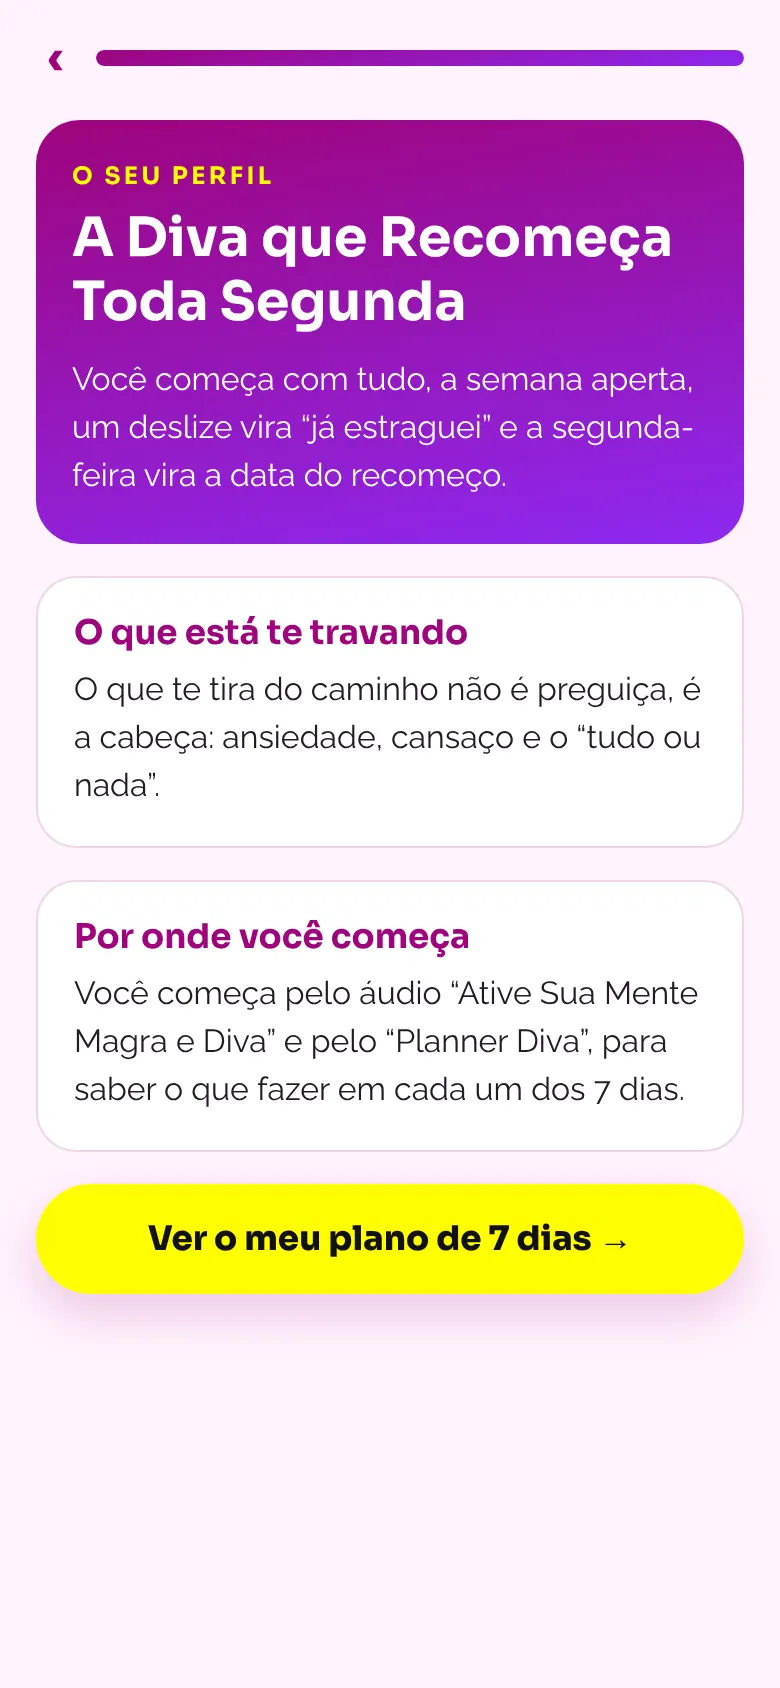
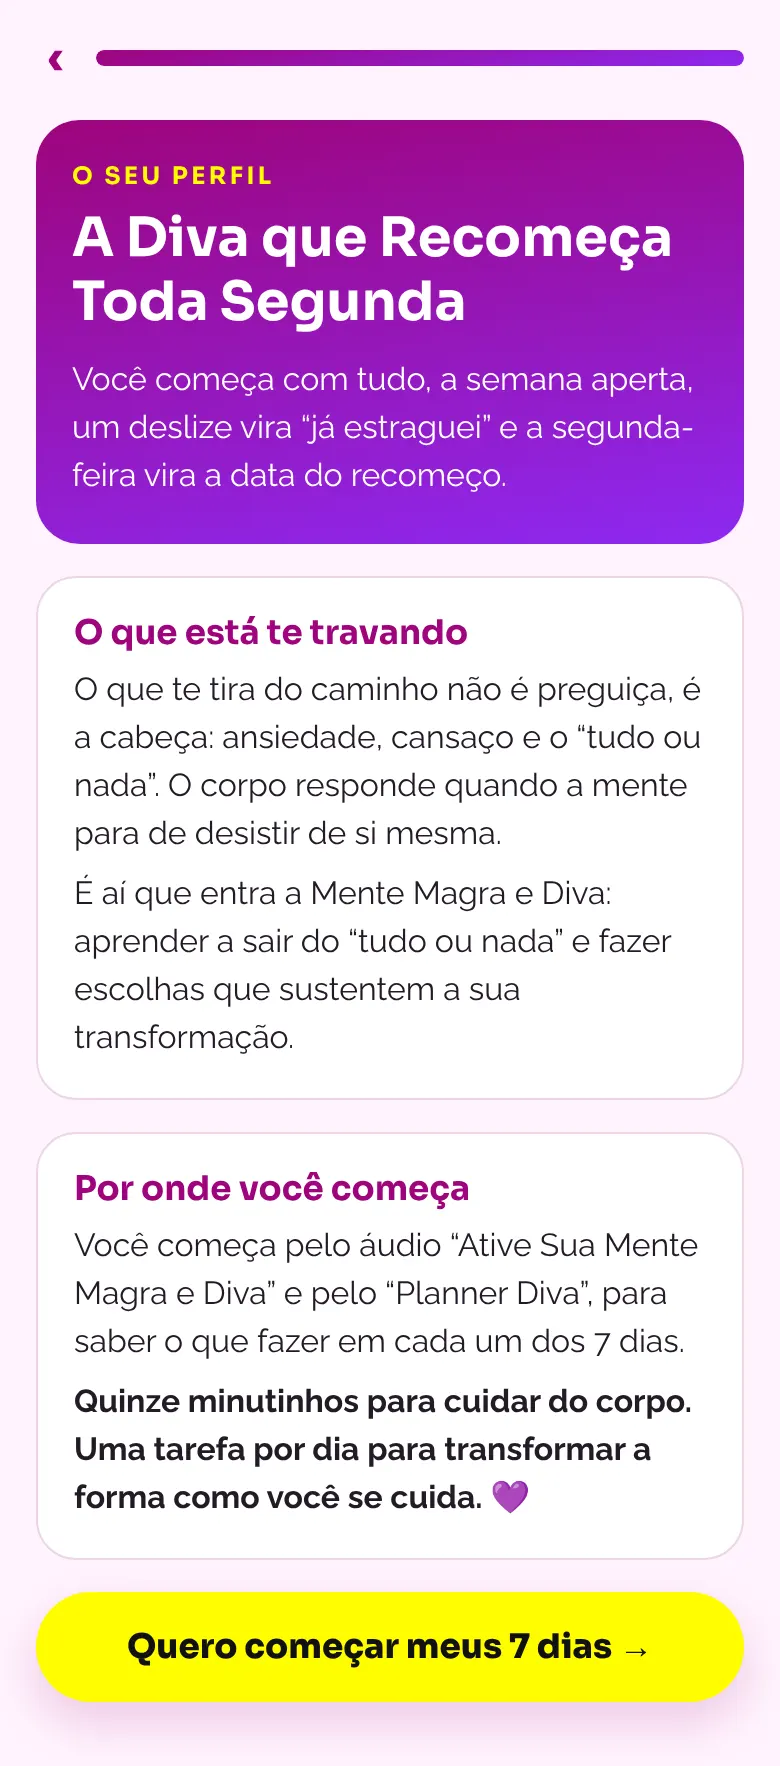
Quiz Diva: ajustes da Michele (idade 45, análise segue sozinha, resultado corpo e mente) e notas do pilates asiático
Claude-Session: https://claude.ai/code/session_01LYmQoangNvB5k6wY4MKJN5

diff --git a/michele-salla/quiz/quiz.js b/michele-salla/quiz/quiz.js
@@ -10,7 +10,7 @@ const PROMESSAS = {
   1: {
     nome: 'A rotina da Michele',
     etiqueta: 'Quiz gratuito',
-    titulo: 'Descubra a rotina de <mark>5 minutos por dia</mark> que eu faço para manter a barriga lisa aos [[IDADE]] anos',
+    titulo: 'Descubra a rotina de <mark>5 minutos por dia</mark> que eu faço para manter a barriga lisa aos 45 anos',
     sub: 'Responda e veja qual é o seu perfil e por onde você começa.',
     botao: 'Quero descobrir meu perfil',
   },
@@ -96,31 +96,31 @@ const PERFIS = {
   'nova-fase': {
     nome: 'A Diva da Nova Fase',
     retrato: 'O seu corpo mudou: gestação, os anos ou a menopausa. O que funcionava antes parou de funcionar, e a barriga não responde como antes.',
-    trava: 'Não é falta de esforço. É que agora o seu corpo pede outro cuidado: fortalecer o abdômen profundo, de dentro para fora.',
+    trava: 'Não é falta de esforço. O seu corpo pede outro cuidado: fortalecer o abdômen profundo, de dentro para fora, com postura e respiração, e cuidar dos pensamentos e hábitos que fazem você desistir de si mesma.',
     comeca: 'Você começa pela aula “Conheça Sua Barriga: Avaliação Inicial”: aprende a observar o seu abdômen, a reconhecer sinais como a diástase e a saber quando buscar avaliação profissional.',
   },
   'estufada': {
     nome: 'A Diva da Barriga Estufada',
     retrato: 'A sua barriga muda ao longo do dia: de manhã está melhor e à noite está estufada. Isso mexe com a roupa, com o humor e com a autoestima.',
-    trava: 'Fazer mais abdominal não é o caminho para esse tipo de barriga. O caminho é ativar o seu cinturão natural com respiração e postura.',
+    trava: 'Fazer cada vez mais abdominais não resolve tudo. É preciso trabalhar o seu cinturão natural com postura, respiração e cuidar dos pensamentos e hábitos que fazem você desistir de si mesma.',
     comeca: 'Você começa pelas aulas “15 Minutos por Dia: Barriga e Cintura em Ação”, com exercícios funcionais, respiração e hipopressivos.',
   },
   'esforcada': {
     nome: 'A Diva Esforçada sem Técnica',
     retrato: 'Você não fica parada: já fez abdominal, dieta, treino. Mesmo assim, a barriga não sai e a cintura não aparece.',
-    trava: 'Não é falta de esforço, é falta da técnica certa. Você não precisa de mil abdominais.',
+    trava: 'Não é falta de esforço, é falta da técnica certa. Você não precisa de mil abdominais: precisa trabalhar o seu cinturão natural com postura e respiração, e cuidar dos pensamentos e hábitos que fazem você desistir de si mesma.',
     comeca: 'Você começa aprendendo a técnica do jeito certo, nas aulas “15 Minutos por Dia”, para o esforço finalmente virar resultado.',
   },
   'recomeco': {
     nome: 'A Diva que Recomeça Toda Segunda',
     retrato: 'Você começa com tudo, a semana aperta, um deslize vira “já estraguei” e a segunda-feira vira a data do recomeço.',
-    trava: 'O que te tira do caminho não é preguiça, é a cabeça: ansiedade, cansaço e o “tudo ou nada”.',
+    trava: 'O que te tira do caminho não é preguiça, é a cabeça: ansiedade, cansaço e o “tudo ou nada”. O corpo responde quando a mente para de desistir de si mesma.',
     comeca: 'Você começa pelo áudio “Ative Sua Mente Magra e Diva” e pelo “Planner Diva”, para saber o que fazer em cada um dos 7 dias.',
   },
   'depois': {
     nome: 'A Diva que se Deixou pra Depois',
     retrato: 'Rotina corrida, casa, filhos, trabalho. Todo mundo virou prioridade, menos você. E um dia você se olhou e não se reconheceu.',
-    trava: 'Você não precisa de horas livres. Precisa de poucos minutos por dia que sejam só seus.',
+    trava: 'Você não precisa de horas livres. Precisa de poucos minutos por dia que sejam só seus, para o corpo e para a cabeça, e de largar os hábitos que fazem você desistir de si mesma.',
     comeca: 'Você começa pelo “Comece Aqui: Sua Jornada Começa Agora” e encaixa os primeiros minutos do dia em você, sem esperar segunda-feira.',
   },
 }
@@ -133,6 +133,10 @@ function perfilDe(r) {
   if (['varias', 'perdi-conta'].includes(r.recomecos) || ['ansiedade', 'noite', 'doce'].includes(r.sabotador)) return 'recomeco'
   return 'depois'
 }
+
+// Texto da Michele (04/11) para a parte da mente, igual em todos os perfis.
+const MENTE = 'É aí que entra a Mente Magra e Diva: aprender a sair do “tudo ou nada” e fazer escolhas que sustentem a sua transformação.'
+const DIA_A_DIA = 'Quinze minutinhos para cuidar do corpo. Uma tarefa por dia para transformar a forma como você se cuida. 💜'
 
 const MEDO = {
   fracasso: 'um passo a passo de 7 dias, com o Planner Diva, para você saber exatamente o que fazer em cada dia.',

diff --git a/michele-salla/quiz/index.html b/michele-salla/quiz/index.html
@@ -52,7 +52,9 @@ p{margin:0}
 .roda{width:72px;height:72px;border-radius:50%;border:7px solid var(--rosa-2);border-top-color:var(--roxo);margin:24px auto;animation:gira 1s linear infinite}
 @keyframes gira{to{transform:rotate(360deg)}}
 .linhas{display:grid;gap:8px;text-align:left}
-.linhas p{background:var(--branco);border-radius:10px;padding:10px 12px}
+.linhas p{background:var(--branco);border-radius:10px;padding:10px 12px;animation:aparece .4s ease both}
+.linhas p:nth-child(2){animation-delay:1s}.linhas p:nth-child(3){animation-delay:2s}
+@keyframes aparece{from{opacity:0;transform:translateY(6px)}to{opacity:1;transform:none}}
 .linhas p::before{content:"✓ ";color:var(--verde);font-weight:800}
 .perfil{background:var(--grad);color:#fff;border-radius:22px;padding:22px 18px;display:grid;gap:10px}
 .perfil .rot{font:700 12px/1 Sora,sans-serif;letter-spacing:.14em;text-transform:uppercase;color:var(--amarelo)}
@@ -70,7 +72,7 @@ p{margin:0}
 .medo{background:#FBEAF6;border-radius:16px;padding:14px 16px;font-size:15px}
 .selos{display:flex;align-items:center;justify-content:center;gap:12px;font-size:13px}
 .selos img{width:58px}
-@media (prefers-reduced-motion: reduce){.roda{animation:none}.barra i{transition:none}}
+@media (prefers-reduced-motion: reduce){.roda{animation:none}.barra i{transition:none}.linhas p{animation:none}}
 </style>
 </head>
 <body>
@@ -111,7 +113,8 @@ const contaveis = TELAS.filter(t => !['capa', 'oferta'].includes(t.tipo)).length
 function progresso() { const n = TELAS.slice(0, i + 1).filter(t => !['capa', 'oferta'].includes(t.tipo)).length; return Math.round(100 * n / contaveis) }
 function topo() { return i === 0 ? '' : `<div class="topo"><button class="voltar" aria-label="Voltar" onclick="volta()">‹</button><div class="barra" aria-hidden="true"><i style="width:${progresso()}%"></i></div></div>` }
 function vai() { i = Math.min(i + 1, TELAS.length - 1); desenha(); scrollTo(0, 0) }
-function volta() { i = Math.max(i - 1, 0); desenha(); scrollTo(0, 0) }
+let voltando = false // quem volta para a tela de análise não é empurrada para frente de novo
+function volta() { i = Math.max(i - 1, 0); voltando = true; desenha(); voltando = false; scrollTo(0, 0) }
 
 function desenha() {
   const t = TELAS[i]
@@ -155,12 +158,13 @@ function desenha() {
     h += `<section class="carregando" style="display:flex;flex-direction:column;gap:10px"><div class="roda" aria-hidden="true"></div><h2 style="font-size:22px">${esc(t.titulo)}</h2>
       <div class="linhas">${t.linhas.map(l => `<p>${esc(l)}</p>`).join('')}</div></section>
       <button class="botao" onclick="vai()">Ver o próximo passo →</button>`
+    if (!q.get('tela') && !voltando) { const aqui = i; setTimeout(() => { if (i === aqui) vai() }, 3600) }
   } else if (t.tipo === 'resultado') {
     const k = q.get('perfil') && PERFIS[q.get('perfil')] ? q.get('perfil') : perfilDe(resp), pf = PERFIS[k]
     h += `<section class="perfil"><span class="rot">O seu perfil</span><h2>${esc(pf.nome)}</h2><p>${esc(pf.retrato)}</p></section>
-      <div class="bloco cartao"><h3>O que está te travando</h3><p>${esc(pf.trava)}</p></div>
-      <div class="bloco cartao"><h3>Por onde você começa</h3><p>${esc(pf.comeca)}</p></div>
-      <button class="botao" onclick="vai()">Ver o meu plano de 7 dias →</button>`
+      <div class="bloco cartao"><h3>O que está te travando</h3><p>${esc(pf.trava)}</p><p>${esc(MENTE)}</p></div>
+      <div class="bloco cartao"><h3>Por onde você começa</h3><p>${esc(pf.comeca)}</p>${pf.comeca.includes('Mente Magra') ? '' : '<p>E com o áudio “Ative Sua Mente Magra e Diva” e o Planner Diva, para cuidar da cabeça junto com o corpo.</p>'}<p><b>${esc(DIA_A_DIA)}</b></p></div>
+      <button class="botao" onclick="vai()">Quero começar meus 7 dias →</button>`
   } else if (t.tipo === 'oferta') {
     const k = q.get('perfil') && PERFIS[q.get('perfil')] ? q.get('perfil') : perfilDe(resp), pf = PERFIS[k]
     const m = MEDO[resp.medo]

diff --git a/michele-salla/quiz/revisao/index.html b/michele-salla/quiz/revisao/index.html
@@ -277,7 +277,6 @@ footer{color:var(--suave);font-size:13px}
     <div class="caixa">
       <h3>Com a Michele</h3>
       <ul class="checks pend">
-        <li><span>Dizer a idade dela para a capa 1 e o gancho 2.</span></li>
         <li><span>Aprovar as 5 promessas e os nomes dos 5 perfis.</span></li>
         <li><span>Confirmar que faz mesmo a rotina de 5 minutos e o hipopressivo todos os dias (capa 1 e tela 8 dizem isso).</span></li>
         <li><span>Ler, como especialista, o “O que está te travando” de cada perfil.</span></li>
@@ -301,7 +300,7 @@ footer{color:var(--suave);font-size:13px}
 <script>
 const QUIZ = 'https://clientes-phi-six.vercel.app/michele-salla/quiz/'
 const PROM = [
-  { p: 1, nome: 'A rotina da Michele', titulo: 'Descubra a rotina de 5 minutos por dia que eu faço para manter a barriga lisa aos <mark class="p">IDADE</mark> anos',
+  { p: 1, nome: 'A rotina da Michele', titulo: 'Descubra a rotina de 5 minutos por dia que eu faço para manter a barriga lisa aos 45 anos',
     fonte: 'Reunião: mostrar a rotina dela (hipopressivo e mentalidade) e a persona resolvida, “eu tenho 40 anos, sou magra, sou resolvida”. Anúncio “Você tem 5 minutos no seu dia?”: o post impulsionado com mais cliques da conta (26.303 cliques, CTR 4,09%, desde 08/2025).' },
   { p: 2, nome: 'Barriga estufada à noite', titulo: 'Você acorda com a barriga lisinha e à noite ela está estufada?',
     fonte: 'Anúncio com a frase de uma aluna: “Michele, eu acordo com a barriga lisinha… mas à noite ela tá estufada” (3.248 cliques, CTR 4,45%).' },
@@ -337,7 +336,7 @@ const PERFIS = [['nova-fase', 'A Diva da Nova Fase'], ['estufada', 'A Diva da Ba
 const GANCHOS = [
   { p: 1, nome: 'A rotina da Michele', l: [
     ['Você tem 5 minutos no seu dia? Então deixa eu te mostrar o que eu faço pela minha barriga.', 'Do post com mais cliques da conta.'],
-    ['Eu tenho <mark class="p">IDADE</mark> anos e essa é a rotina de 5 minutos que eu não largo.', 'Persona “resolvida” da reunião.'],
+    ['Eu tenho 45 anos e essa é a rotina de 5 minutos que eu não largo.', 'Persona “resolvida” da reunião.'],
     ['Não é dieta maluca nem treino de 2 horas. São 5 minutos de hipopressivo.', 'Posts de hipopressivo e “sem dieta”.'],
     ['Quer saber o que eu faço para manter a cintura? Eu te mostro num quiz rápido.', 'Chamada para o quiz.']] },
   { p: 2, nome: 'Barriga estufada à noite', l: [

diff --git a/michele-salla/PASSAGEM_BASTAO.md b/michele-salla/PASSAGEM_BASTAO.md
@@ -348,6 +348,15 @@ Os M da pasta "MICHELE LOW" são esses mesmos vídeos. Mapa conferido pelos quad
     `window.plBloco` (chama `window.plTique()` antes e depois da troca). Site `quiz` no `cliente.config.ts` (domínios: michelesalla.com.br,
     clientes-phi-six.vercel.app, painel.michelesalla.com.br). A API aceita vários sites no mesmo domínio pelo começo do slug.
     Telas abertas com `?tela=` (painel de revisão) não rastreiam. Se o quiz mudar de endereço, pôr o domínio em `outrosDominios`.
+  - **Ajustes da Michele (04/11, WhatsApp):** idade 45 na capa 1 e no gancho 2; telas "Analisando…" seguem sozinhas em ~3,5 s
+    (o botão continua; quem volta não é empurrada); resultado com corpo e mente (texto dela: cinturão natural + "pensamentos e
+    hábitos que fazem você desistir de si mesma" + Mente Magra e Diva + "Quinze minutinhos… Uma tarefa por dia…"), botão
+    "Quero começar meus 7 dias". **Em aberto (decisão Patrik/Michele):** 7 × 21 dias, tirar os funcionais e deixar só
+    hipopressivo + áudio (muda texto de oferta: regra de pagamento), ajuste do ManyChat (não disse qual).
+  - **Pilates asiático (04/11):** página "Pilates Asiáticos 28 dias" (1147500708457430) com 8 anúncios ativos na Biblioteca desde
+    07–11/08, todos "Avaliação máxima ⭐ Descubra seu plano personalizado AGORA" (quiz), cobrança em USD; "Protocole Naturel" igual.
+    Reverse Health: "28-Day Asian Pilates Challenge", mulheres 40+, quiz de 1 minuto, 15–20 min, barriga, core e postura.
+    A Michele não tem campanha nem venda de pilates na conta/painel: falta saber o produto dela (conteúdo, preço, checkout).
   - **Capa (03/11, pedido do Patrik):** foto da Michele trocada pelo antes e depois do Desafio (`hero-antes-depois-avatar.webp`) nas 5 capas.
   - **Checagem dos 3 filtros do Patrik (03/11):** todos os números reconferidos na fonte. Corrigido "≈100 vendas" → 75 do produto
     principal. Posts da Michele são impulsionamentos de CLIQUE (não venda). P5 tem o maior CTR da conta ("Deixa eu te lembrar", 13,53%);
